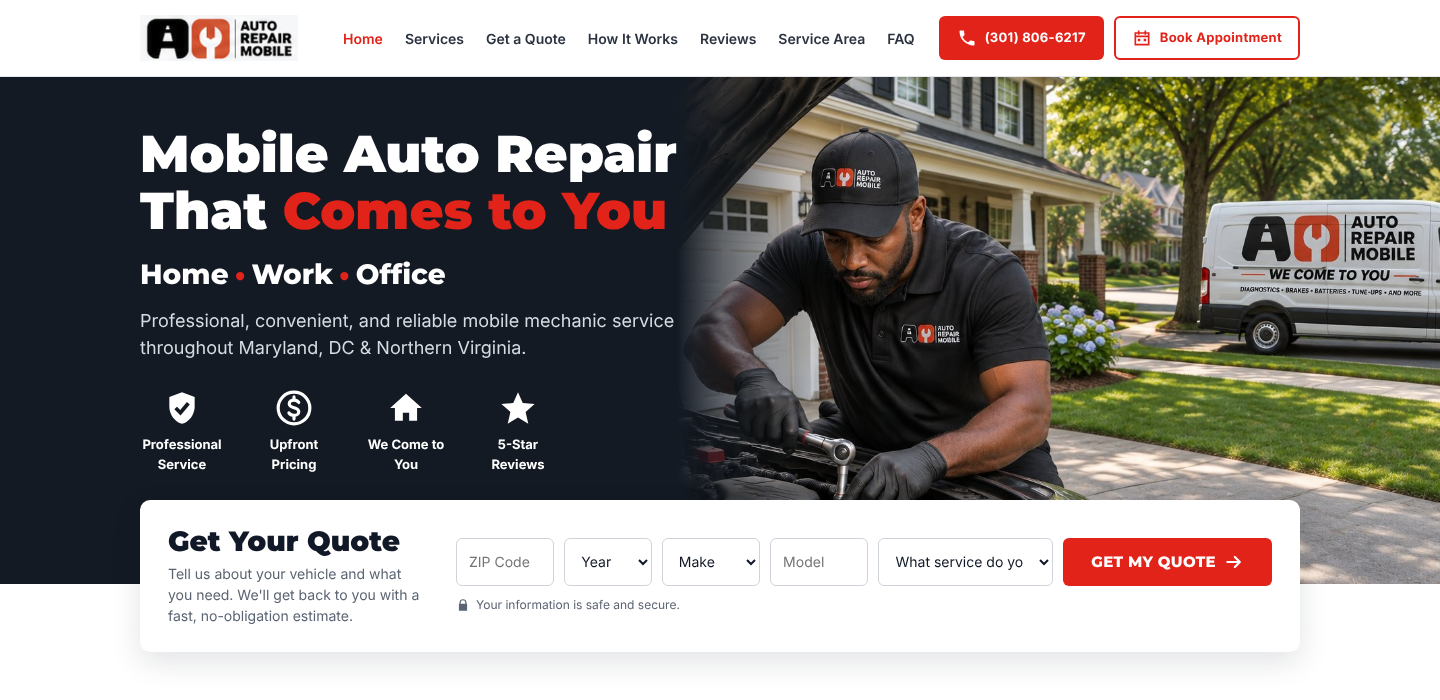
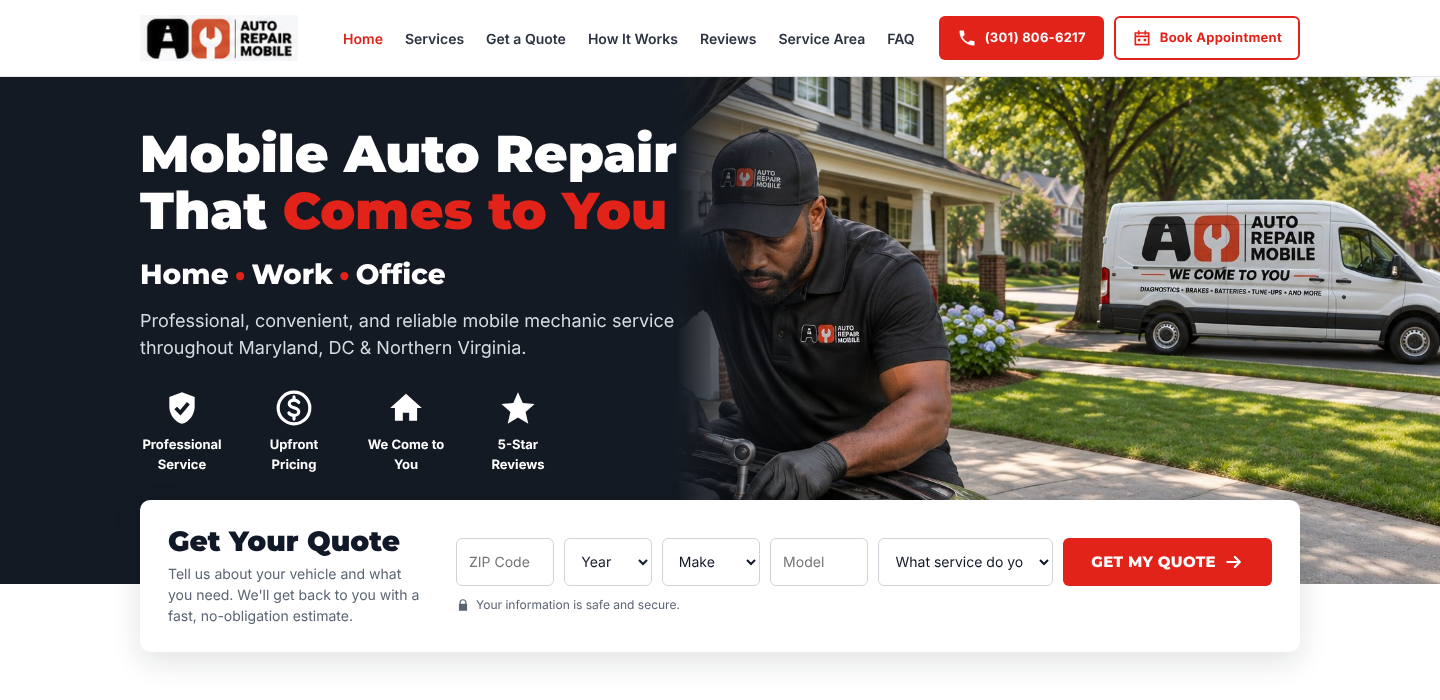
AM Auto Repair site: frame hero so the full van shows
Claude-Session: https://claude.ai/code/session_01JW4dvEYkD34MKXGr3sva41

Changed region(s): [[0.4688, 0.09, 1.0, 0.84]]

diff --git a/am-auto-repair-site/index.html b/am-auto-repair-site/index.html
@@ -45,7 +45,7 @@
 
   /* Hero */
   .hero{position:relative;background:var(--navy-2);color:#fff;overflow:hidden}
-  .hero-img{position:absolute;inset:0 0 0 47%;background:url(images/hero-mechanic-van.jpg) left center/cover no-repeat}
+  .hero-img{position:absolute;inset:0 0 0 47%;background:url(images/hero-mechanic-van.jpg) 70% center/cover no-repeat}
   .hero-img::after{content:"";position:absolute;inset:0;background:linear-gradient(90deg,var(--navy-2) 0%,rgba(20,26,35,.55) 6%,rgba(20,26,35,0) 18%)}
   .hero .wrap{position:relative;min-height:500px;display:flex;align-items:center;padding-top:48px;padding-bottom:110px}
   .hero-copy{max-width:600px}
